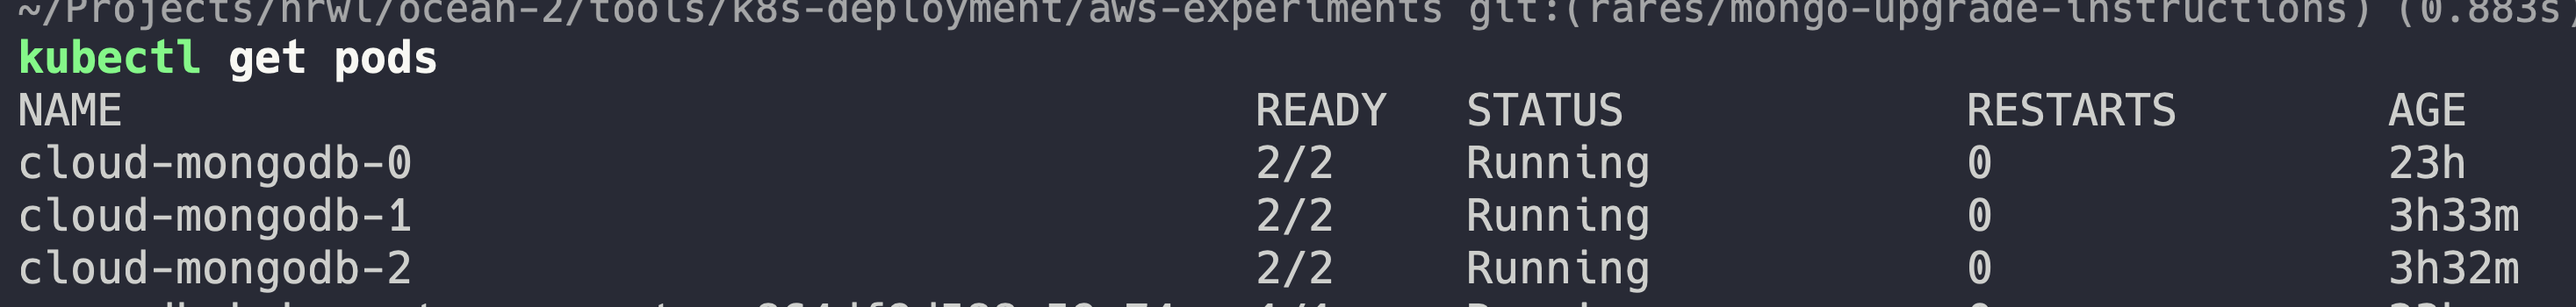
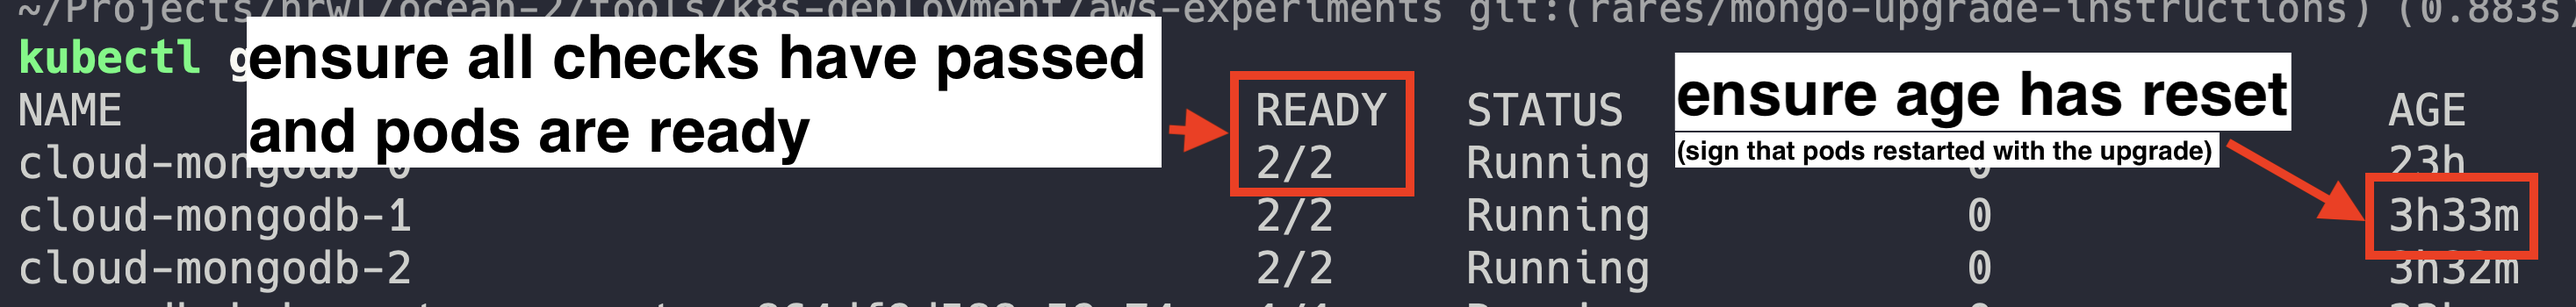
docs: add more screenshots

Changed region(s): [[0.093, 0.0571, 0.5583, 0.6571], [0.6513, 0.1714, 0.9925, 0.8571]]

diff --git a/MONGO-OPERATOR-GUIDE.md b/MONGO-OPERATOR-GUIDE.md
@@ -147,7 +147,7 @@ This is a sample connection string you can use when connecting to your instance 
 
 ### Upgrading to Mongo 6
 
-As of version `latest-11-05-2023T11-28-04` and higher, we strongly recommend you update from Mongo 4.2 to Mongo 6 for
+As of version `latest-11-05-2023T11-28-04` (and all new calver based versions that are similar to `2305.11.3`) and higher, we strongly recommend you update from Mongo 4.2 to Mongo 6 for
 your NxCloud installation.
 
 Mongo upgrades need to be done incrementally between major versions. In both scenarios below, we'll upgrade from Mongo 4.2
@@ -155,17 +155,23 @@ to 4.4 then to 5.0 then to 6.0.
 
 ##### Mongo Atlas
 
-If you're using Mongo Atlas, you can do a rolling upgrade by editing your cluster's configuration and first selecting Mongo 4.4, then Mongo 5.0, finally Mongo 6.0.
+If you're using Mongo Atlas, you can do a rolling upgrade by editing your cluster's configuration:
+
+<img src="examples/images/atlas-edit-cluster-config.png">
+
+and first selecting Mongo 4.4, then Mongo 5.0, finally Mongo 6.0 (notice how it doesn't let us upgrade from 4.4 straight to 6):
+
+<img src="examples/images/atlas-upgrade-mongo-version.png">
 
 ##### Mongo Operator
 
 If you're using the Mongo Operator, you'll need to edit your Mongo ReplicaSet and apply the version changes incrementally, as Mongo doesn't allow a direct 4.2 to 6.0 upgrade.
-During the upgrade, we'll need to continually change our [feature compatibility version](https://www.mongodb.com/docs/manual/reference/command/setFeatureCompatibilityVersion/) on the pods.
-Mongo requires this is always trailing the version we want to upgrade to. For example, if we are on Mongo 4.4 and we want to upgrade to Mongo 5, our featureCompatibilityVersion needs to be 4.4.
+During the upgrade, we'll need to continually update our [feature compatibility version](https://www.mongodb.com/docs/manual/reference/command/setFeatureCompatibilityVersion/) also.
+Mongo requires that this `featureCompatibilityVersion` always trailing the version we want to upgrade to. For example, if our pods are on Mongo 4.4 and we want to upgrade them to Mongo 5, our featureCompatibilityVersion needs to be first set to 4.4.
 
-It's important you follow the exact steps in order to ensure a smooth upgrade without any downtime:
+It's important you follow the exact steps in order:
 
-1. Backup your database first
+1. [Backup your database first](https://docs.bitnami.com/tutorials/backup-restore-data-mongodb-kubernetes/) using a tool like `mongodump`. You can ssh into any of your pods. 
 1. Edit your `/mongo.yml` file
 2. Change to Mongo version 4.4: `version: '4.4.20'`
    - Then, we'll also set this option right below it: `featureCompatibilityVersion: '4.2'`
@@ -188,25 +194,24 @@ It's important you follow the exact steps in order to ensure a smooth upgrade wi
 4. Now set `version: '5.0.17'`
    5. Apply the change
    6. Leave it to upgrade for the next 20-30 minutes. 
-   7. Your `kubectl get pods` output should show healthy pods, with `2/2` availability and the `AGE` of the pods should now also be reset.
+   7. Your `kubectl get pods` output should show healthy pods, with `2/2` availability and the `AGE` of the pods should now also be reset (similar to the screenshot we saw above)
 3. Set `featureCompatibilityVersion: '5.0'` 
    4. Apply the changes. You don't need to wait/watch for pod upgrades as this change will be applied very quickly.
 3. Change to `version: '6.0.5'` and apply it.
    4. Wait for 20 minutes
    5. Then check your pods are in a healthy state `kubectl get pods`
-
-3. Finally, set `featureCompatibilityVersion: '6.0'` and apply the change.
+3. Finally, set `featureCompatibilityVersion: '6.0'` and apply the change. This change will be very quick.
 4. All your pods should now be on Mongo 6. Congratulations!
 
 ##### How to check pod Mongo version and featureCompatibilityVersion:
 
-If you'd like to check what Mongo version your pods are on, you can exec into a pod and:
+If you are unsure if your pods have finished upgrading between Mongo versions (as this a long, based on the steps above) and you'd like to check what Mongo version your pods are on, you can exec into a pod and:
 
 ```shell
-mongo --version
+mongo --version # you can do this for each pod part of your replica set
 ```
 
-To check the featureCompatibilityVersion, exec into the pod and:
+To check the `featureCompatibilityVersion`, exec into the pod and:
 
 ```shell
 mongo -u admin-user -p <password> --authenticationDatabase nrwl-api
@@ -214,5 +219,4 @@ use nrwl-api
 db.adminCommand({getParameter: 1, featureCompatibilityVersion: 1})
 ```
 
-You can use the above commands to check each of your 3 replicas is on the correct Mongo and featureCompatibilityVersion between the upgrade steps above.
-
+Although not necessary, you can use the above commands to check each of your 3 replicas is on the correct Mongo version and `featureCompatibilityVersion` between the upgrade steps above.
